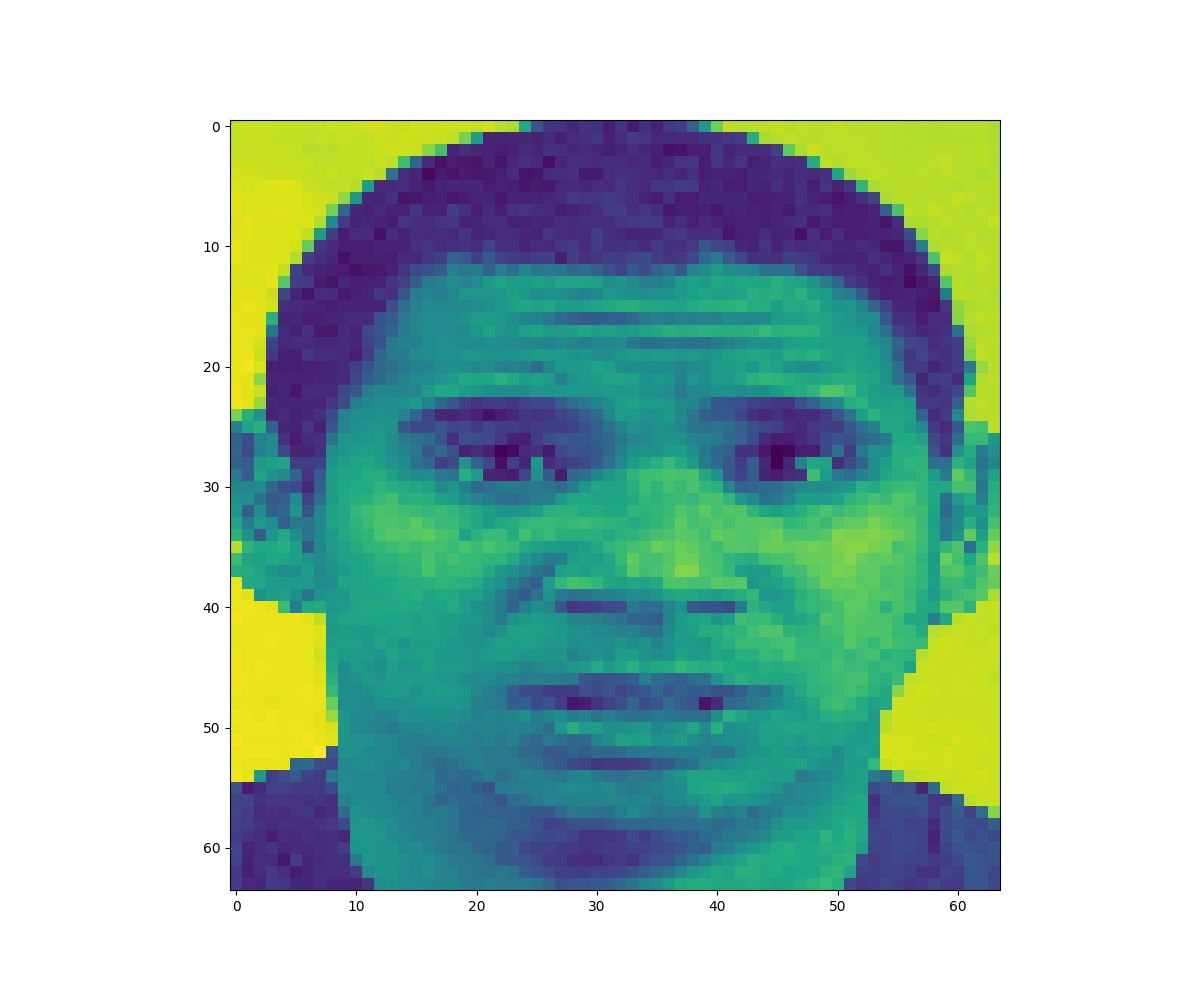
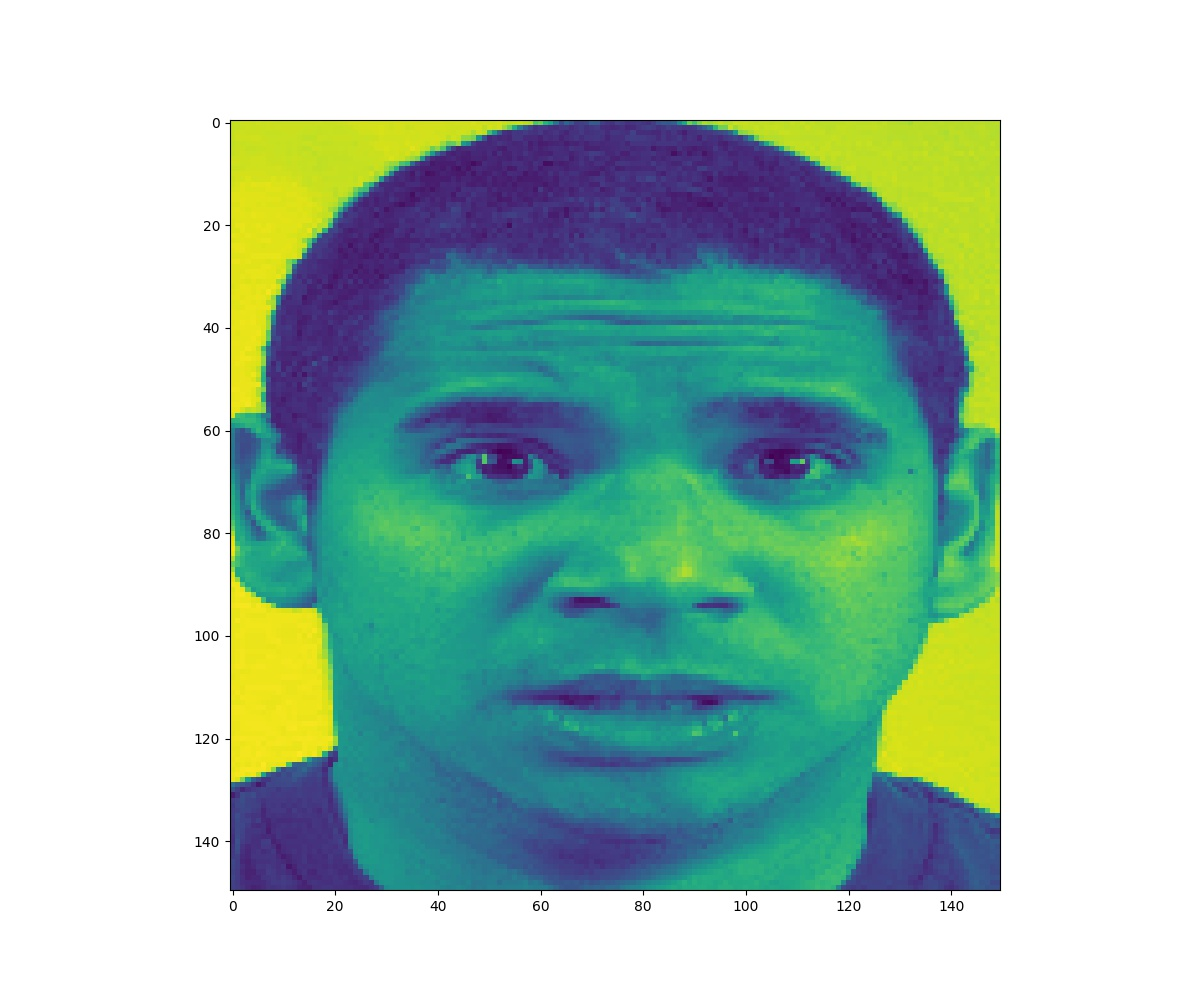
Finished training - adding results

diff --git a/main.py b/main.py
@@ -29,8 +29,8 @@ colors = plt.rcParams['axes.prop_cycle'].by_key()['color']
 
 
 batch_size = 32
-img_height = 350
-img_width = 350
+img_height = 150
+img_width = 150
 data_dir = "data/images/"
 
 
@@ -143,7 +143,7 @@ def parse_function(filename, label):
     # This will convert to float values in [0, 1]
     image = tf.image.convert_image_dtype(image, tf.float32)
 
-    resized_image = tf.image.resize(image, [64, 64])
+    resized_image = tf.image.resize(image, [img_height, img_width])
 
     return resized_image, label
 
@@ -160,7 +160,7 @@ def data_pipeline(filenames, labels):
 def create_model_1(num_classes, metrics):
     model = Sequential()
     model.add(
-        Conv2D(32, (3, 3), input_shape=(64, 64, 1), padding='same', activation='relu'))
+        Conv2D(32, (3, 3), input_shape=(img_height, img_width, 1), padding='same', activation='relu'))
     model.add(Dropout(0.2))
     model.add(Conv2D(32, (3, 3), activation='relu', padding='same'))
     model.add(MaxPooling2D())
@@ -297,7 +297,7 @@ def main():
 
     image = parse_function('data/images/facial-expressions_2868582k.jpeg', "check")
     myarr = np.asarray(image[0])
-    final = myarr.reshape(64, 64)
+    final = myarr.reshape(img_height, img_width)
     plt.imshow(final)
     plt.savefig("processed_image.jpg")
     plt.show()
@@ -350,7 +350,7 @@ def main():
     # Plot loss
     plot_loss(training_history, "Training Loss", 0)
 
-    # Plot metrics
+    # TODO: Support multiclass custom metrics
     # plot_metrics(training_history)
 
     # Perform evaluations on test set
@@ -364,14 +364,15 @@ def main():
     for name, value in zip(model.metrics_names, baseline_results):
         print(name, ': ', value)
 
+    # TODO: Support multiclass confusion matrix and ROC curve
     # Plot confusion matrix
     # plot_cm(y_test, test_predictions_baseline)
 
     # Plot ROC curve
-    plot_roc("Train Baseline", y_train, train_predictions_baseline, color=colors[0])
-    plot_roc("Test Baseline", y_test, test_predictions_baseline, color=colors[0], linestyle='--')
-    plt.legend(loc='lower right')
-    plt.savefig("plots/roc_plot.png")
+    # plot_roc("Train Baseline", y_train, train_predictions_baseline, color=colors[0])
+    # plot_roc("Test Baseline", y_test, test_predictions_baseline, color=colors[0], linestyle='--')
+    # plt.legend(loc='lower right')
+    # plt.savefig("results/roc_plot.png")
 
 if __name__ == "__main__":
     main()

diff --git a/README.md b/README.md
@@ -3,7 +3,9 @@ Dataset was taken from https://github.com/muxspace/facial_expressions.
 
 # Further improvements
 1. Add customized metrics  
-2. Confusion matrix  
-3. Gridsearch  
+2. Data Augmentation  
+3. Confusion matrix  
+4. Gridsearch    
+5. Visualise CNN output  
 
 
